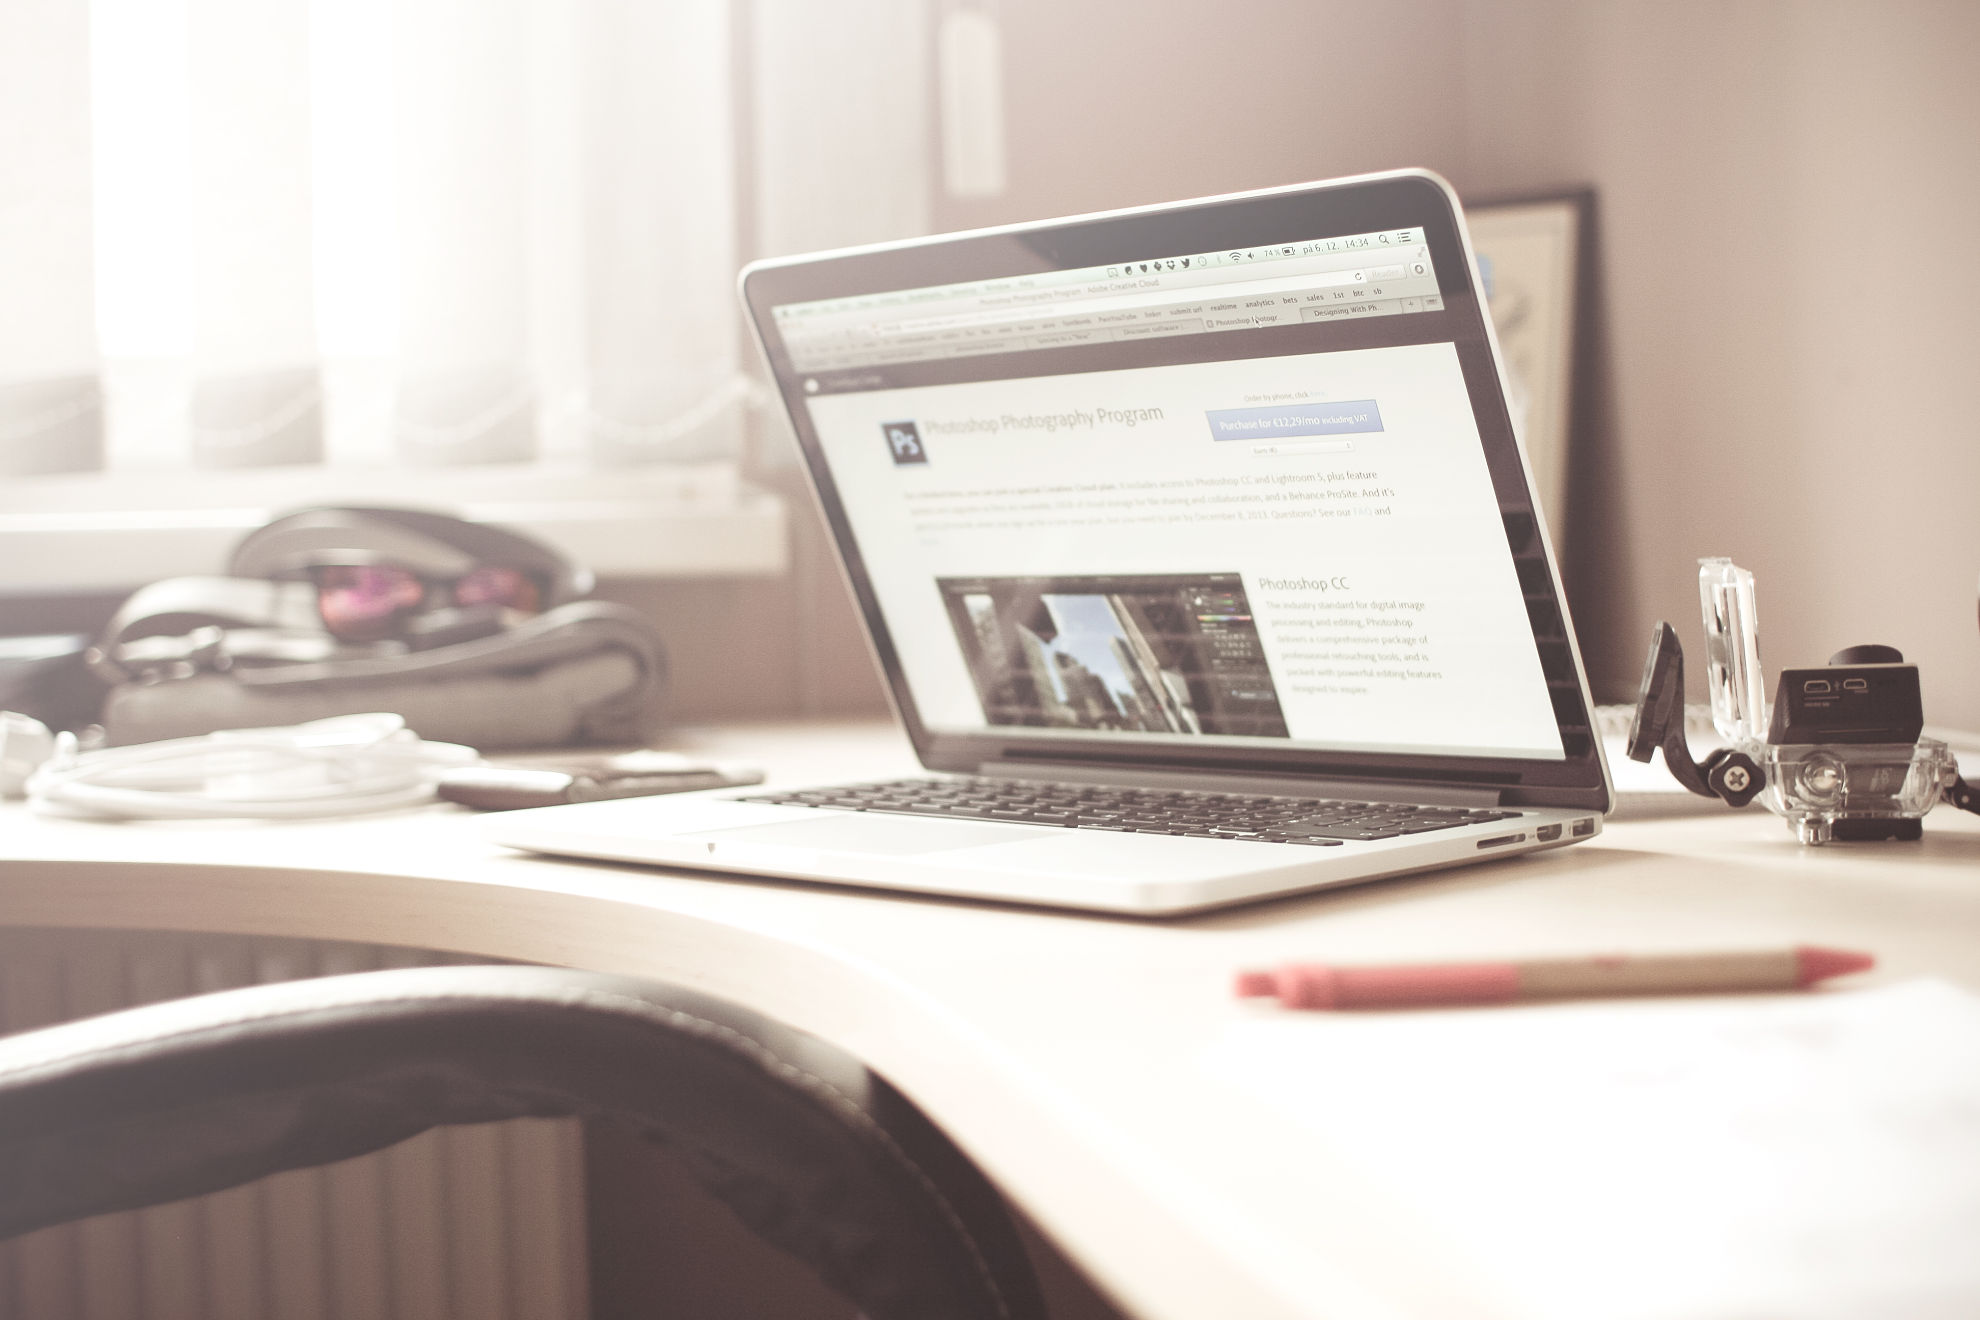
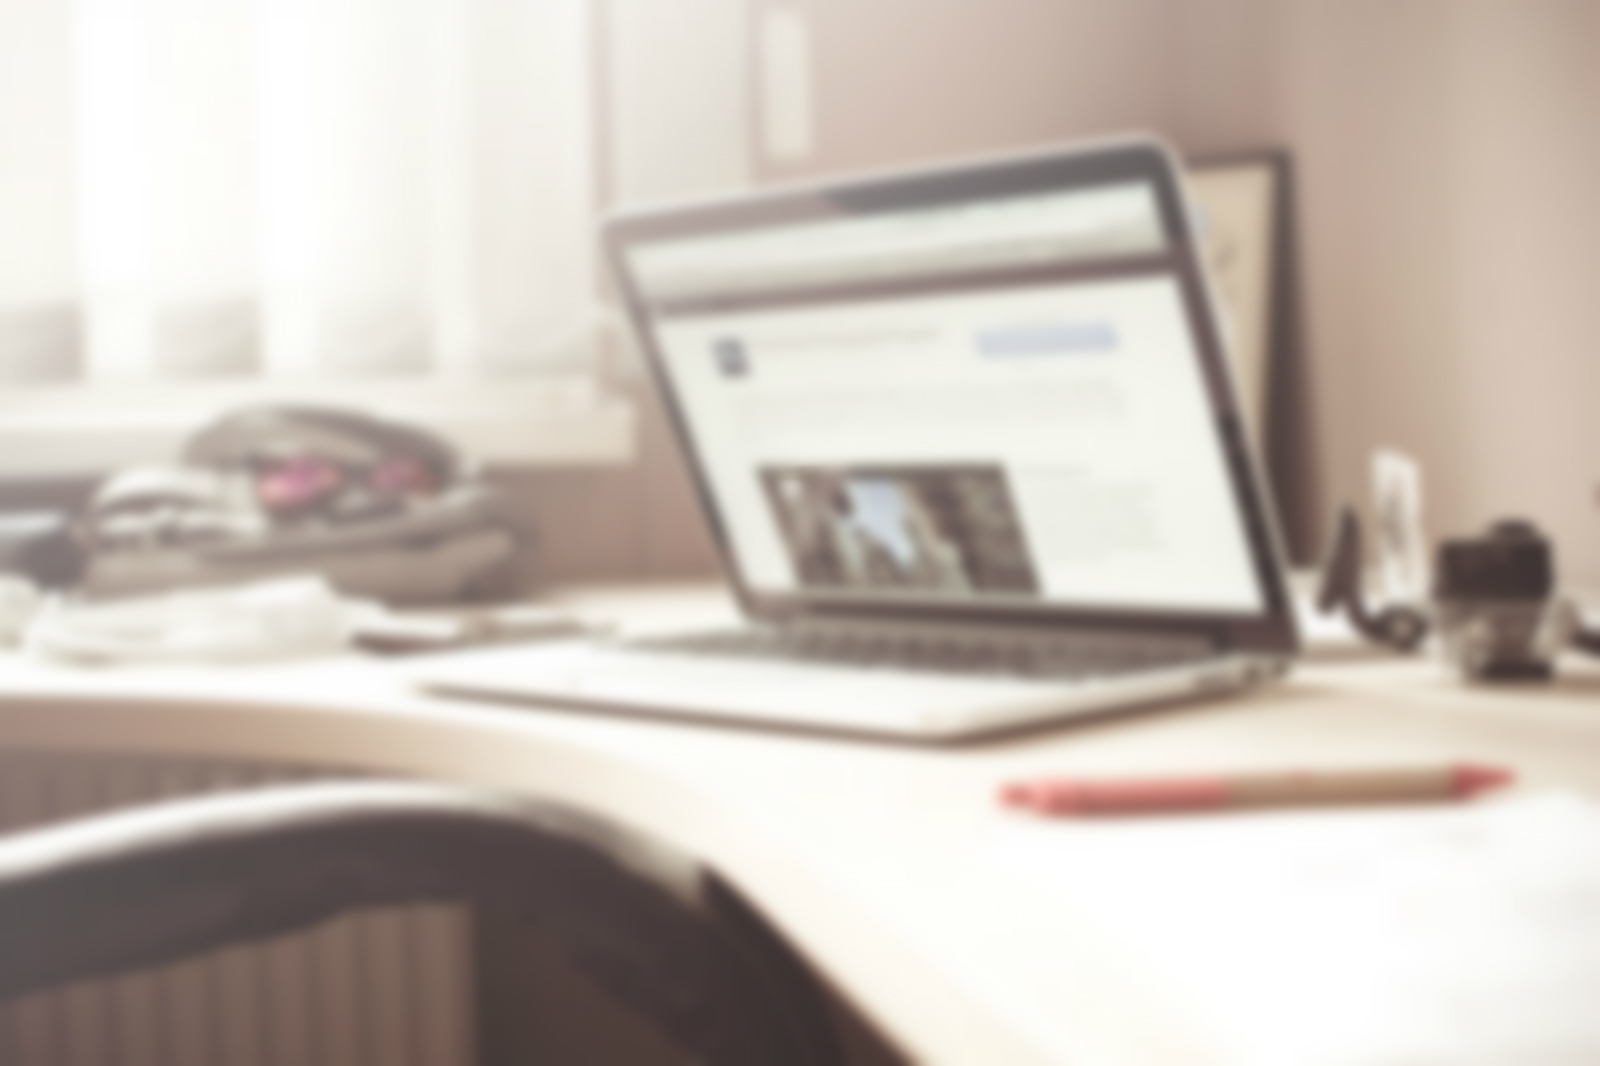
Added blur on frontpage background, changed button appearence.

diff --git a/css/style.css b/css/style.css
@@ -22,7 +22,6 @@ p {
 
 a {
 	font-family: "Roboto Slab", serif;
-	text-transform: uppercase;
 	color: inherit;
 	text-decoration: underline;
 }
@@ -45,9 +44,12 @@ h1 {
  * Classes and IDs
  */
 
+i {
+	color: #3CB371;
+}
+
 .scrollToTop {
-	width: 100px;
-	height: 20px;
+	display: inline-block;
 	text-align: center;
 	font-weight: bold;
 	color: #444;
@@ -83,11 +85,18 @@ h1 {
 	height: 100vh;
 	padding: 0;
 	margin: 0;
-	background-image: url('../img/frontpage.jpg');
-	background-size: cover;
-	background-attachment: fixed;
-	background-repeat:no-repeat;
-	font-family: 'Oswald';
+	background: url('../img/frontpage.jpg') no-repeat center center fixed;
+	-webkit-background-size: cover;
+  	-moz-background-size: cover;
+  	-o-background-size: cover;
+  	background-size: cover;
+  	/*background:
+  	radial-gradient(black 15%, transparent 16%) 0 0,
+	radial-gradient(black 15%, transparent 16%) 8px 8px,
+	radial-gradient(rgba(255,255,255,.1) 15%, transparent 20%) 0 1px,
+	radial-gradient(rgba(255,255,255,.1) 15%, transparent 20%) 8px 9px;
+	background-color:#282828;
+	background-size:16px 16px;*/
 	z-index: 0;
 }
 
@@ -98,16 +107,6 @@ h1 {
 
 .cap {
 	text-transform: capitalize;
-}
-
-.item {
-	padding: 0;
-	margin: 0;
-	text-align: center;
-	width: 100%;
-	max-width: 660px;
-	margin-left: auto;
-	margin-right: auto;
 }
 
 .break {
@@ -121,22 +120,61 @@ h1 {
 
 /* Button */
 
-.btn {
+input::-moz-focus-inner,
+button::-moz-focus-inner {
+	border: 0;
+	padding: 0;
+}
+
+input[type="submit"].btn,
+button.btn {
+	cursor: pointer;
+}
+
+a.btn,.btn {
+   	margin-right: 1em; /* remove this while use*/
+	display: inline-block;
+	outline: none;
+	*zoom: 1;
+	text-align: center;
 	text-decoration: none;
-	text-transform: none;
-	border: 2px solid rgba(0, 0, 0, .7);
-	padding: 5px;
-	border-radius: 3px;
-	color: rgba(0, 0, 0, .7);
-	top: 90vh;
-	font-size: 18px;
+	font-family: "Roboto Slab", sans-serif;
+	font-weight: 400;
+	letter-spacing: 1px;
+	vertical-align: middle;
+	border: 1px solid;
+	transition: all 0.2s ease;
+	box-sizing: border-box;
+	text-shadow: 0 1px 0 rgba(0,0,0,0.01);
+}
+/* Radius */
+.btn-radius {
+  border-radius: 3px;
+}
+/* Sizes */
+.btn-small {
+	font-size: 0.8125em;
+	padding: 0.4125em 1.25em;
+}
+.btn-medium {
+	font-size: 0.9375em;
+	padding: 0.5375em 1.375em;
+}
+.btn-large {
+	font-size: 1.0625em;
+	padding: 0.5625em 1.5em;
 }
 
-.btn:hover {
-	border: 2px solid rgba(0, 0, 0, 1);
-	color: rgba(0, 0, 0, 1);
+/* Colors */
+.btn-green {
+	color: #3CB371;
+	border-color: #3CB371;
 }
-
+.btn-green:hover {
+  background: #3CB371;
+  color: #fff;
+  border-color: #3CB371;		
+}
 
 /* Image at the top */
 
@@ -168,6 +206,7 @@ h1 {
 
 .subtitle {
 	font-family: 'Roboto Slab', serif;
+	font-weight: 300;
 	margin-top: 0px;
 	font-size: 24px;
 }

diff --git a/index.html b/index.html
@@ -12,19 +12,21 @@
 	<link rel="stylesheet" href="css/normalize.css">
 	<link rel="stylesheet" href="css/style.css">
 	<link rel="stylesheet" href="css/grid.css">
-	<link href='http://fonts.googleapis.com/css?family=Roboto:400,700|Source+Sans+Pro|Roboto+Slab:300' rel='stylesheet' type='text/css'>
+
+	<link href="//netdna.bootstrapcdn.com/font-awesome/4.0.3/css/font-awesome.css" rel="stylesheet">
+	<link href='http://fonts.googleapis.com/css?family=Roboto:400,700|Roboto+Slab:300,400' rel='stylesheet' type='text/css'>
 	<script src="http://ajax.googleapis.com/ajax/libs/jquery/1.5.1/jquery.min.js"></script>
+
 	<script type="text/javascript" src="js/scroll.js"></script>
+
 	<title>Maximilian Stoiber</title>
 </head>
 <body>
-	<a href="#" class="scrollToTop">Scroll To Top</a>
-
 	<!-- Begin Front Page -->
 	<section id="frontpage">
-			<h1 class="fptext title">Hi, I'm Max!</h1>
-			<h3 class="fptext subtitle">Violinist, Web Designer, Skiing Instructor</p>
-			<a href="#aboutme" class="btn" id="a">About me</a>
+			<h1 class="fptext title">Hi, I'm <strong>Max!</strong></h1>
+			<h3 class="fptext subtitle">Violinist, Front-End Developer, Skiing Instructor</p>
+			<a href="#aboutme" class="btn btn-small btn-green btn-radius" id="a">About me</a>
 	</section>
 	<!-- End Front Page -->
 
@@ -34,10 +36,14 @@
 			<h1>About Me</h1>
 			<div class="break"></div>
 			<div class="grid-50">
+				<br />
+				<i class="fa fa-dribbble fa-4x"></i>
 				<h2>Sports</h2>
 				<p>I play tennis at the Better Tennis Academy, was very ambitious for a few years but had to slow my training schedule to focus on my studies. I used to ski competetively at USC Greim, a skiing club which has regular trainings at Lachtal, and will finish my skiing instructor training during the summer holidays 2014, after which I will be a certified Landesskilehrer.</p>
 			</div>
 			<div class="grid-50">
+				<br />
+				<i class="fa fa-music fa-4x"></i>
 				<h2>Music</h2>
 				<p>Music plays a big part in my life, and I spend a lot of time finding new genres, songs and artist. I like many genres, from Classic over EDM to Hip-Hop, and love discovering new ones! I play the violin since more years than I can count, recently started to learn singing.</p>
 			</div>
@@ -64,5 +70,7 @@
 		</div>
 	</section>
 	<!-- End Footer -->
+
+	<a href="#" class="scrollToTop btn btn-small btn-green btn-radius"><i class="fa fa-arrow-up"></i> Scroll To Top</a>
 </body>
 </html>
